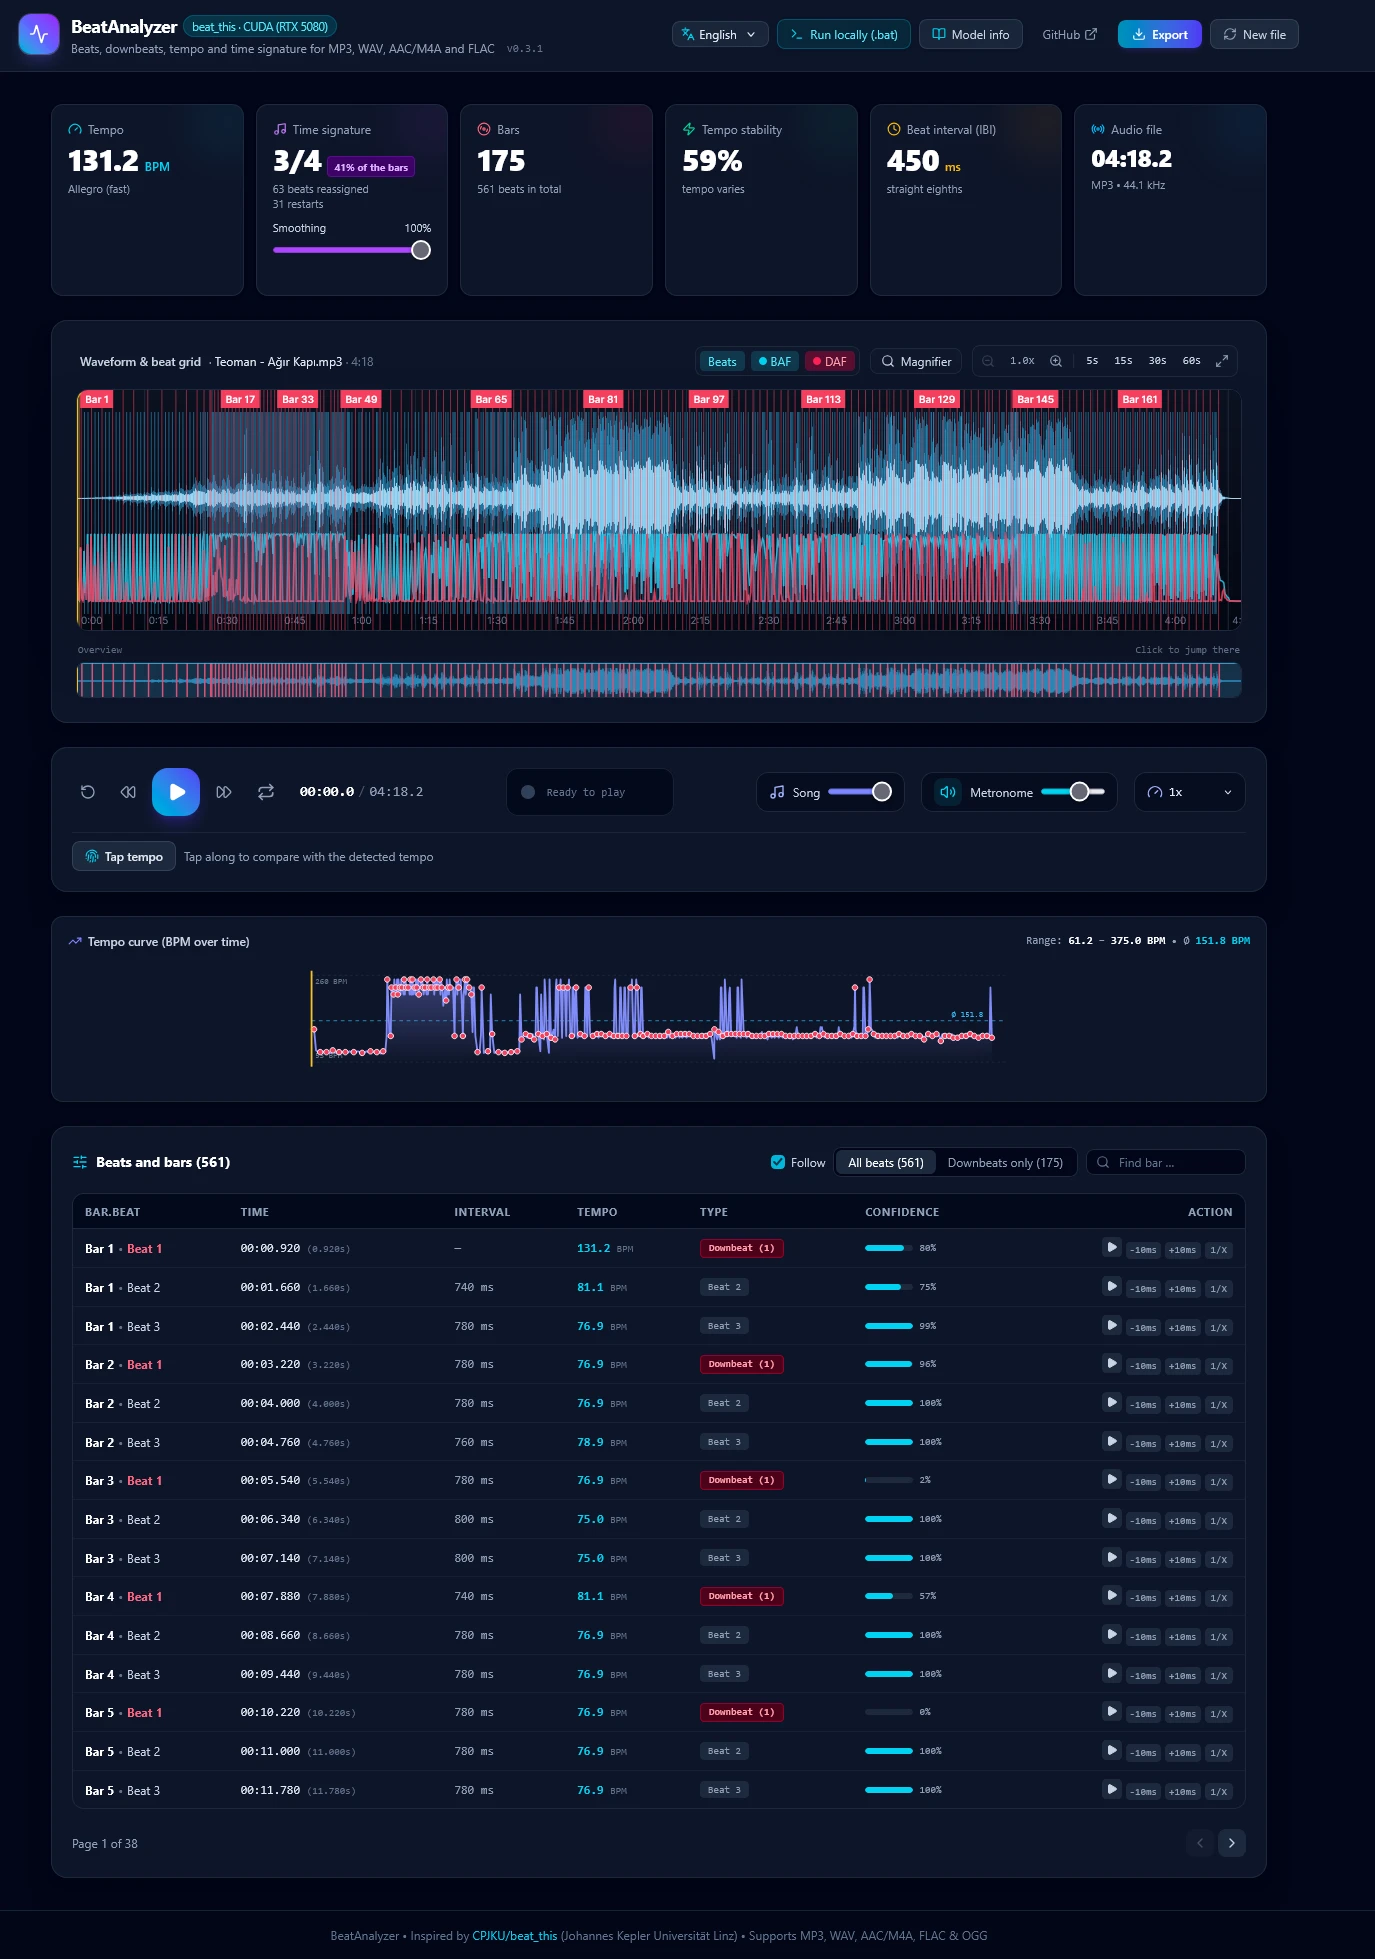
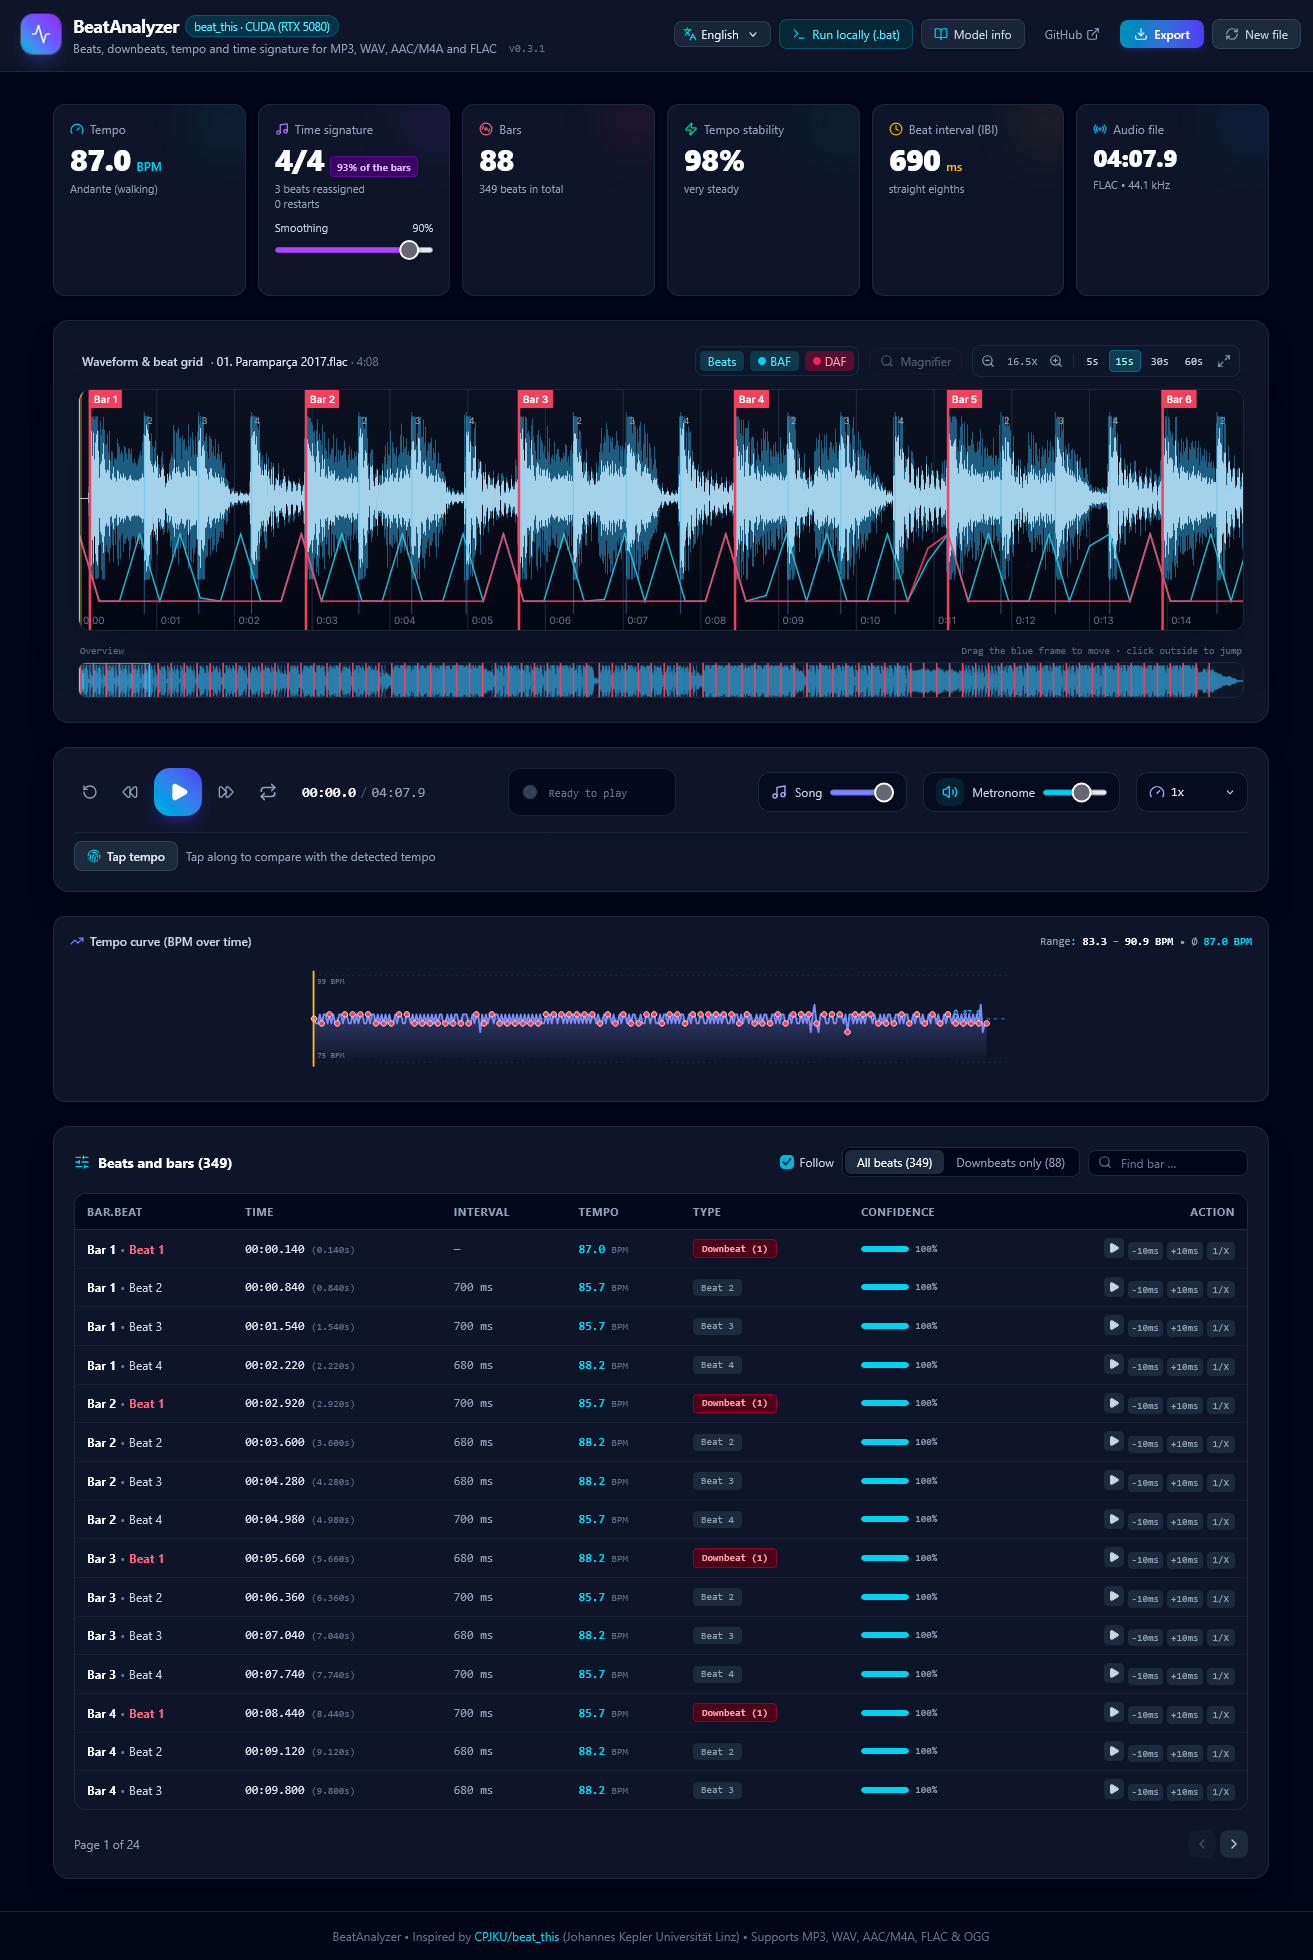
README: web app result screenshot with a steady song; note on a robust global tempo
Claude-Session: https://claude.ai/code/session_01QDKquKN2kw6qtnPLZJ6fmR

diff --git a/docs/superpowers/notes/2026-11-14-offene-punkte.md b/docs/superpowers/notes/2026-11-14-offene-punkte.md
@@ -156,6 +156,9 @@
 - Server versteht nur `smoothBars=0` als „aus“; Kommandozeile gibt `barSmoothing` nicht aus.
 
 **Glätten / Analyse**
+- **Gesamttempo robuster (Idee, nicht entschieden):** `globalBpm` = 60 / Mittelwert der Beat-Abstände. Bei Songs, in
+  denen beat_this abschnittsweise doppelt so viele Beats findet („Teoman – Ağır Kapı“: Tabelle meist 76,9 BPM,
+  Gesamttempo 131,2, Stabilität 59 %, Tempo-Kurve bis 375 BPM), zieht das den Wert hoch. Median wäre robuster.
 - Testlücken: 3/4-Takt und Songende bei `smooth_bars`.
 - Tempo-Sprünge in Abschnitten (z. B. „Küçük Sevgilim“: ≈ 115 ↔ 176 BPM, Faktor 1,5) – beat_this zählt dort auf
   anderer Ebene; nicht untersucht.
